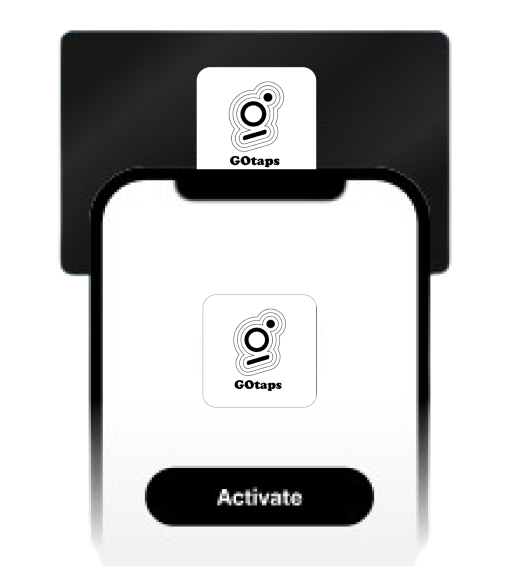
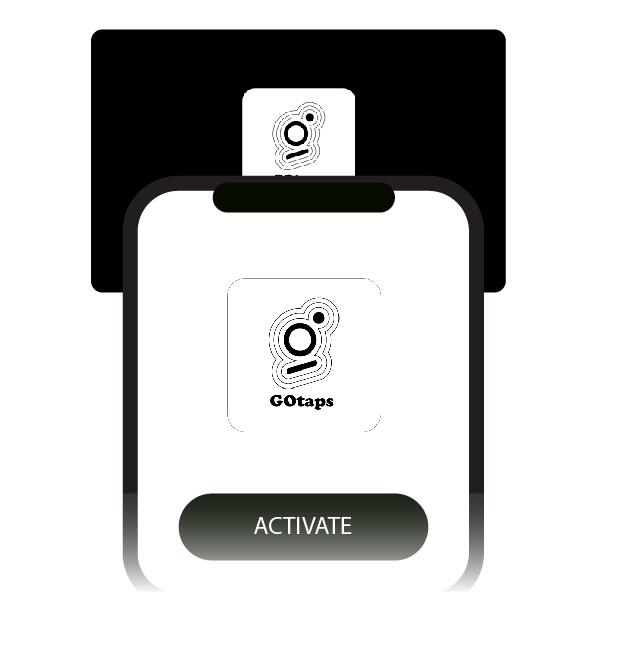
change accessories section

diff --git a/resources/views/livewire/enterprise/accessories.blade.php b/resources/views/livewire/enterprise/accessories.blade.php
@@ -26,7 +26,7 @@
             <div class="card-body d-flex justify-content-center align-items-center" style="color: #000">
                 <!-- Left Side -->
                 <div class="d-flex flex-column align-items-center mar">
-                    <img src="{{ asset('Accessory1.png') }}" alt="Feature 1" class="img-fluid shadow"
+                    <img src="{{ asset('Accessory1.jpg') }}" width="300" alt="Feature 1" class="img-fluid shadow"
                         style="border-radius: 8px;">
                     <h5 class="mt-3">Get Gotaps Accessories</h5>
                     <p class="text-center" style="max-width: 250px;">Don't have any accessory? Purchase them here</p>
@@ -43,7 +43,7 @@
 
                 <!-- Right Side -->
                 <div class="d-flex flex-column align-items-center mar">
-                    <img src="{{ asset('Accessory2.jpg') }}" width="250" alt="Feature 1" class="img-fluid shadow"
+                    <img src="{{ asset('Accessory2.jpg') }}" width="300" alt="Feature 1" class="img-fluid shadow"
                         style="border-radius: 8px;">
                     <h5 class="mt-3">Activate Gotaps Accessories</h5>
                     <p class="text-center" style="max-width: 250px;">If you have all accessories you need, simply
